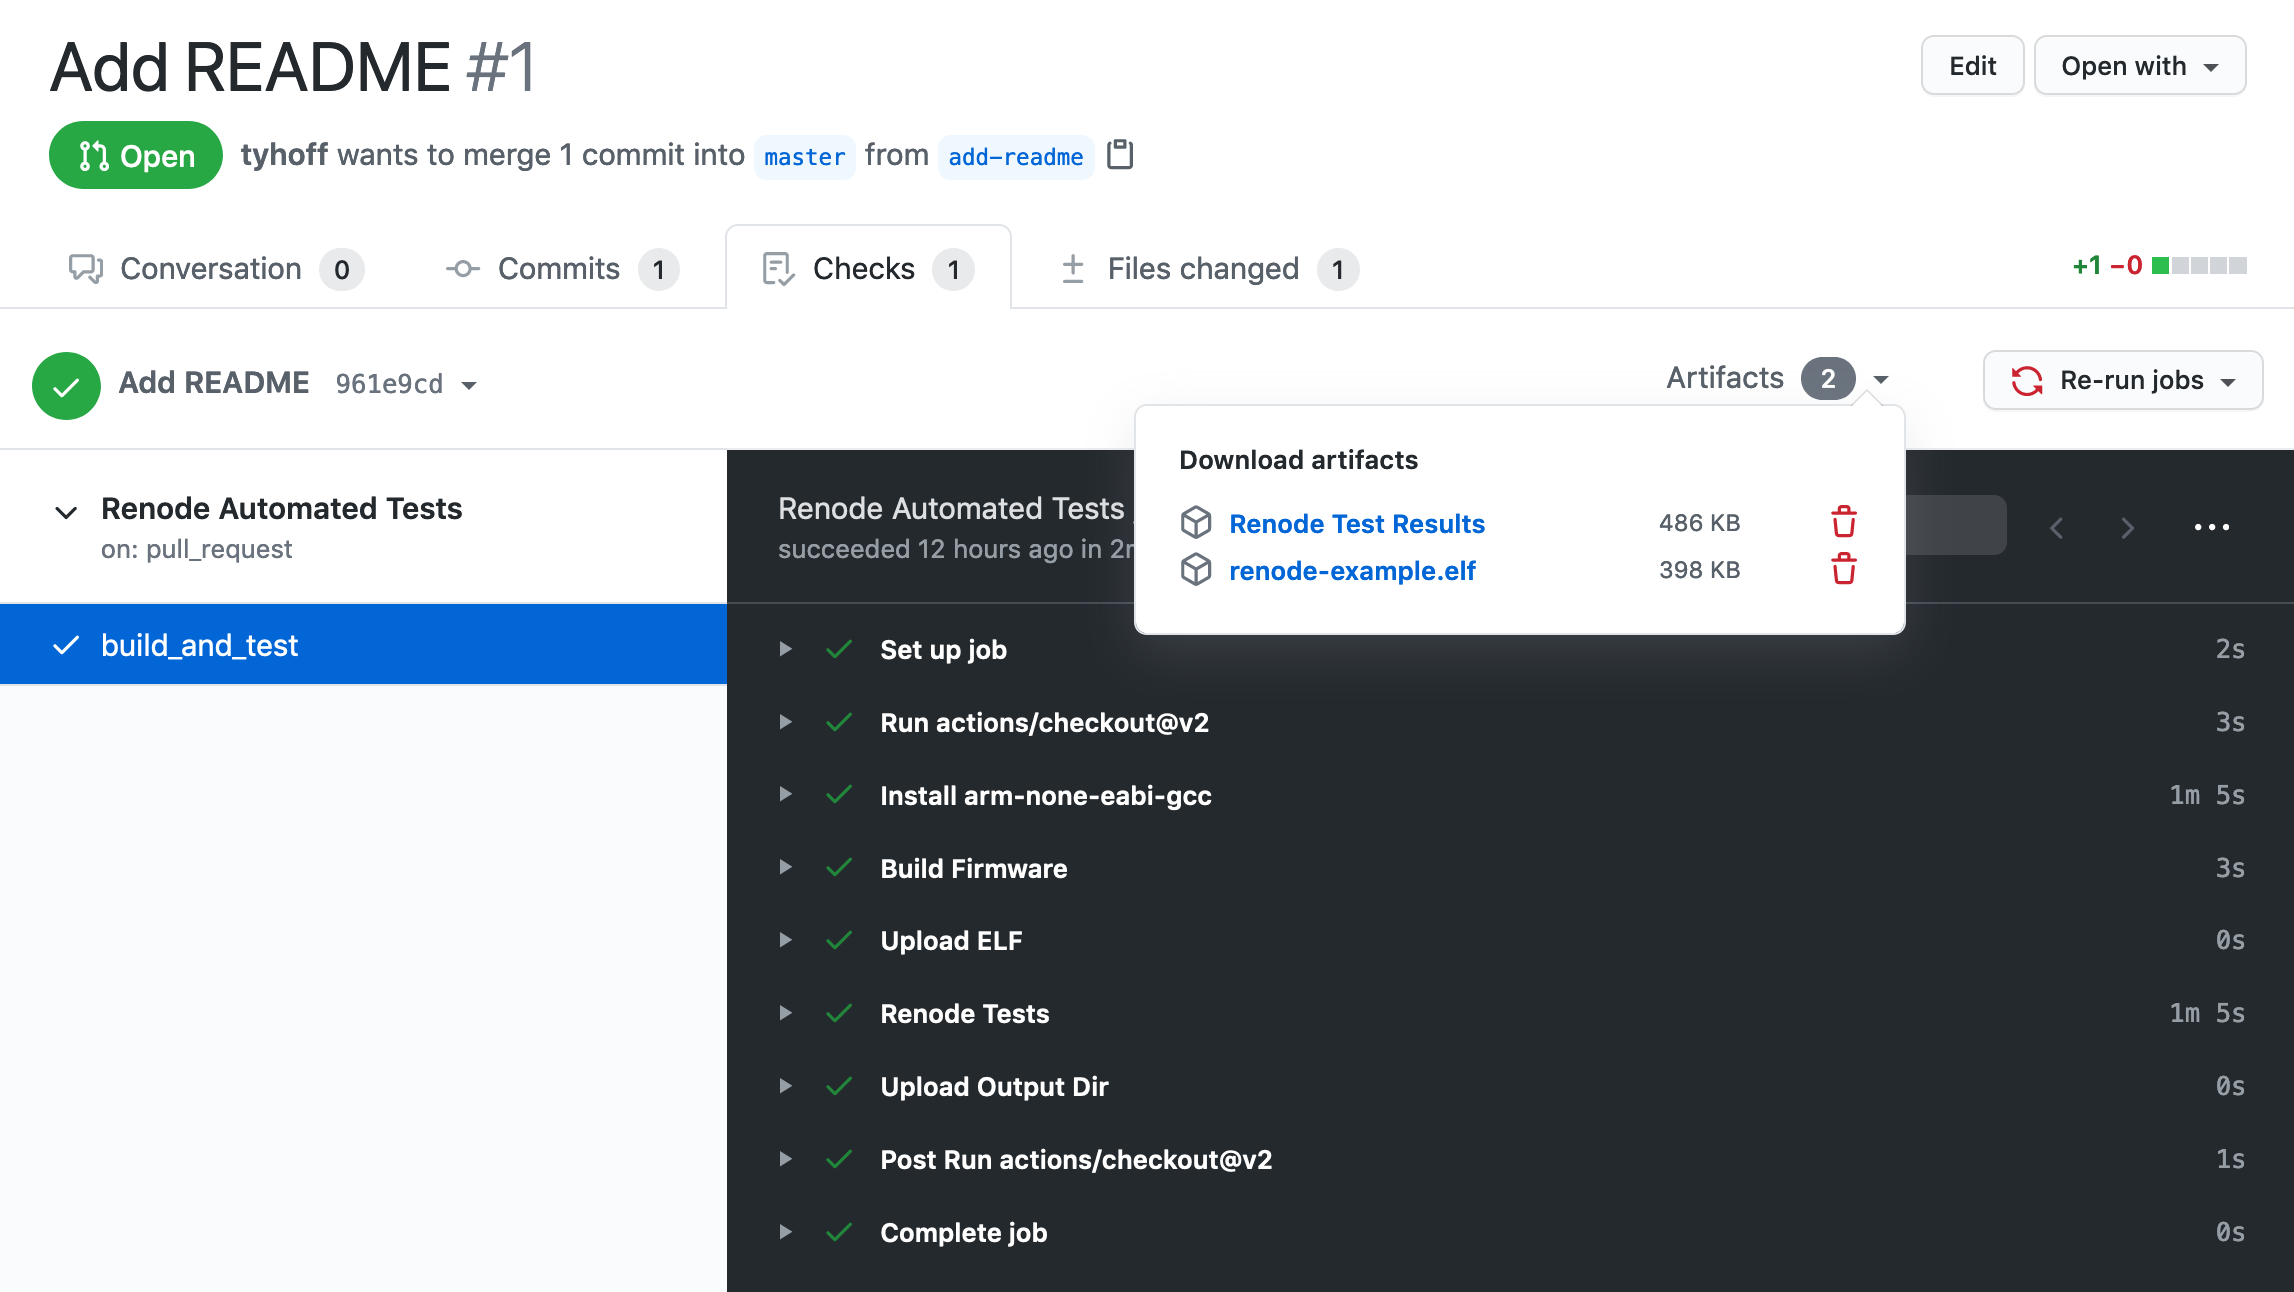
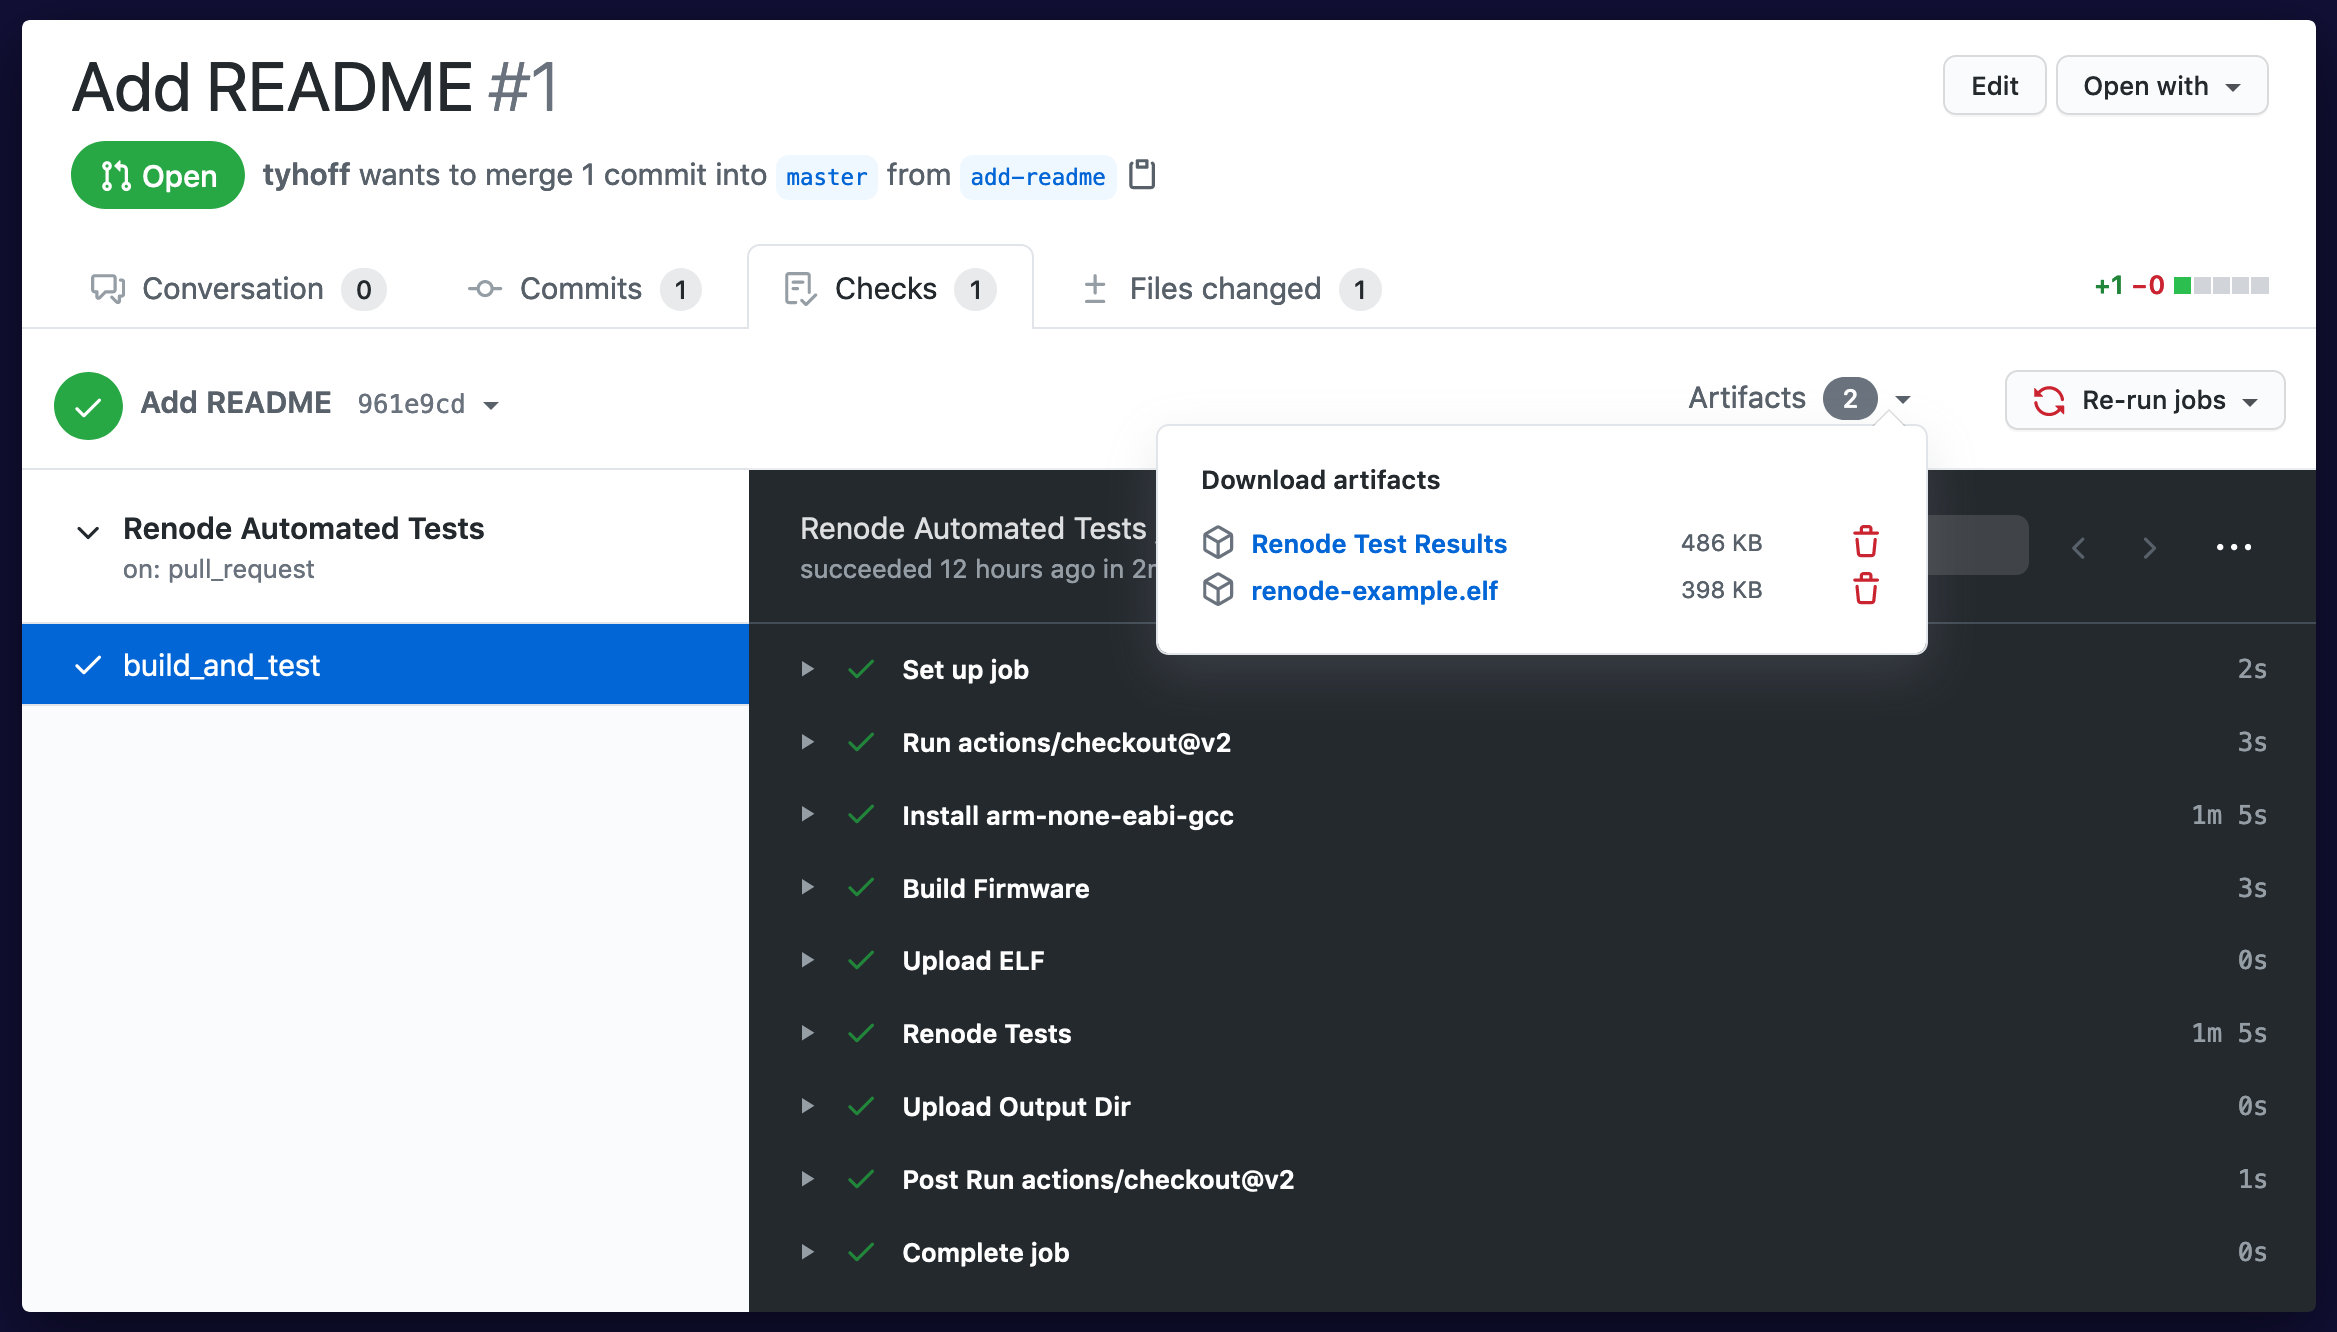
improve images

diff --git a/_drafts/test-automation-renode.md b/_drafts/test-automation-renode.md
@@ -244,7 +244,9 @@ $ ./start.sh
 
 And then we see our firmware's shell in the UART window of Renode.
 
-![](img/test-automation-renode/renode-start.png)
+<p align="center">
+  <img width="700" src="/img/test-automation-renode/renode-start.png"/>
+</p>
 
 We can interact with it exactly as if it was connected to our computer over USB
 serial! This would have made writing and testing the firmware for my [Tiny
@@ -507,7 +509,9 @@ Command
     [Tags]                      critical  uart  factory
 ```
 
-![](/img/test-automation-renode/robot-docs.png)
+<p align="center">
+  <img width="700" src="/img/test-automation-renode/robot-docs.png"/>
+</p>
 
 > Adding the tag `non_critical` or `skipped` on a test will allow the test to
 > fail but not mark the entire test run as a failure. You can use this for
@@ -701,14 +705,18 @@ jobs:
 Now, when we publish a pull-request on GitHub, we'll immediately see that the
 build is triggered and our job starts.
 
-![](/img/test-automation-renode/github-pr-building.png)
+<p align="center">
+  <img width="700" src="/img/test-automation-renode/github-pr-building.png"/>
+</p>
 
 If we click on "Details", we can watch each job complete in real time! Below we
 see that all jobs are successful and that we have two artifacts. One is the ELF
 file that was built during the job, and the other is a ZIP archive of the Robot
 Framework test results.
 
-![](/img/test-automation-renode/github-pr-build.png)
+<p align="center">
+  <img width="700" src="/img/test-automation-renode/github-pr-build.png"/>
+</p>
 
 The best part about using the Robot Framework integration of Renode is that it
 generates pretty HTML-based reports, as we saw in the [Introduction to Renode
